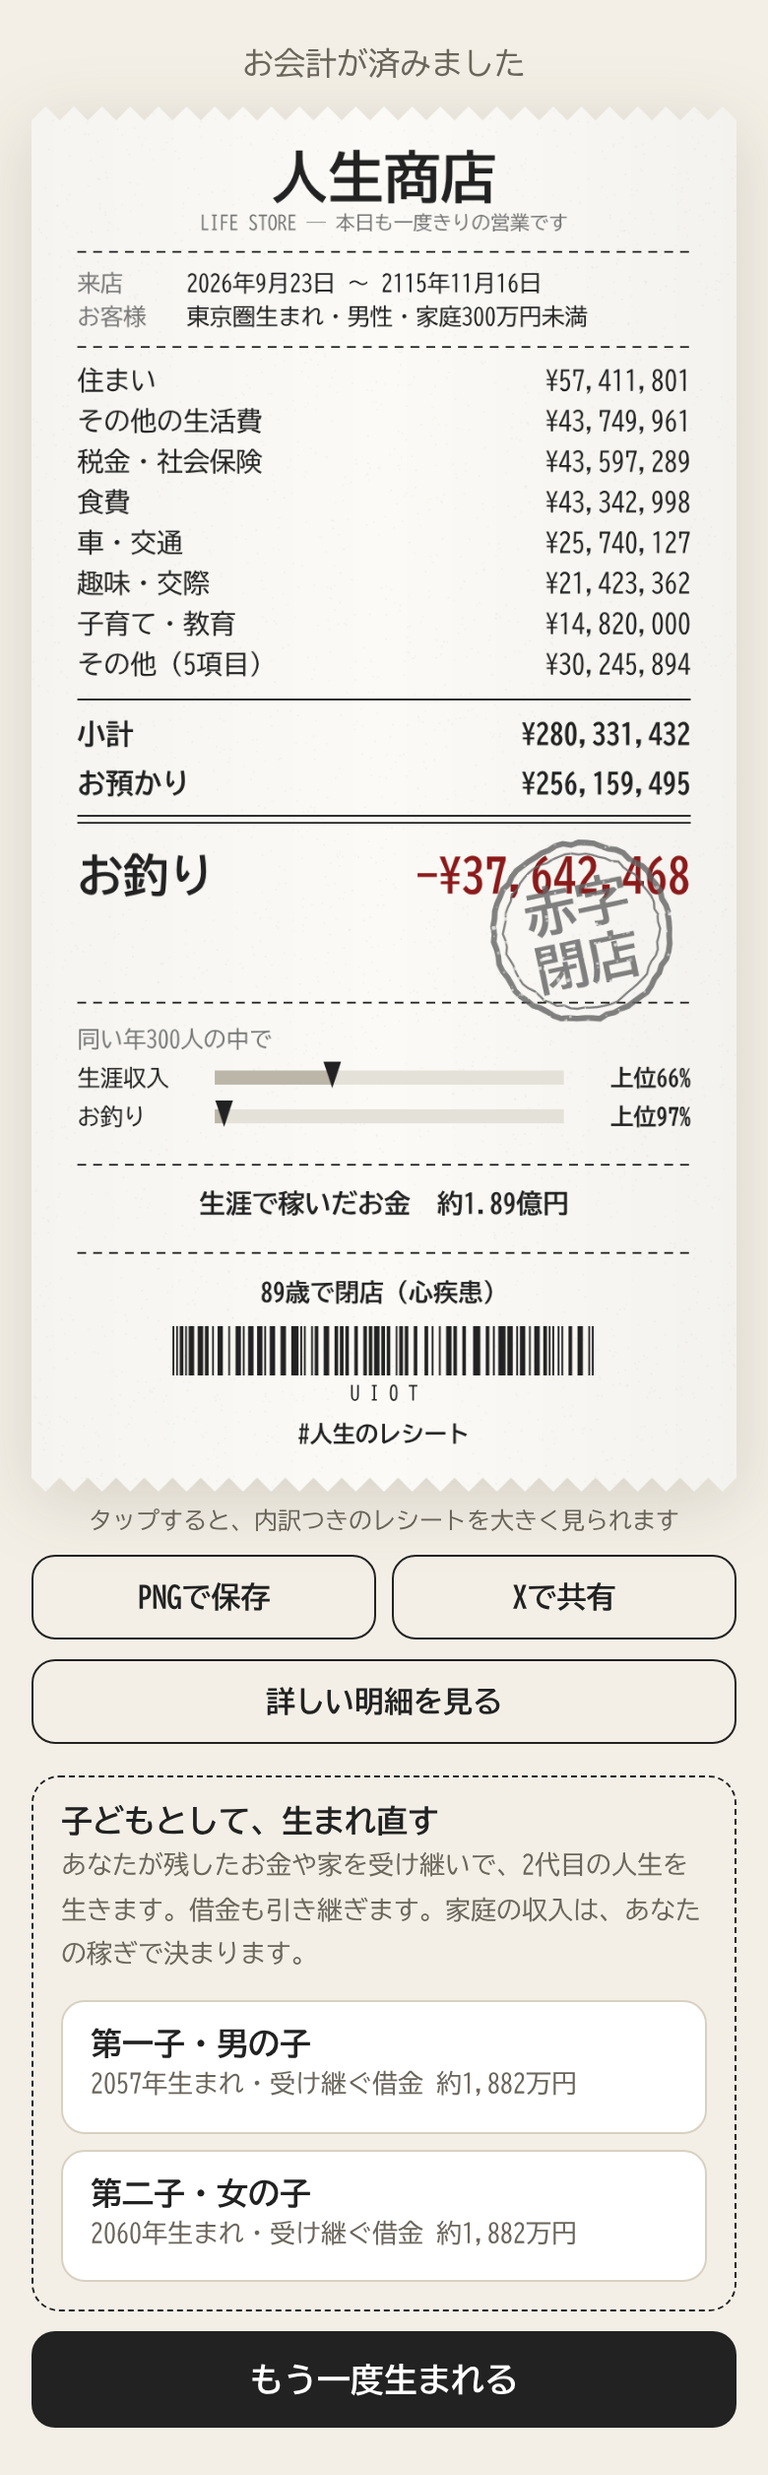
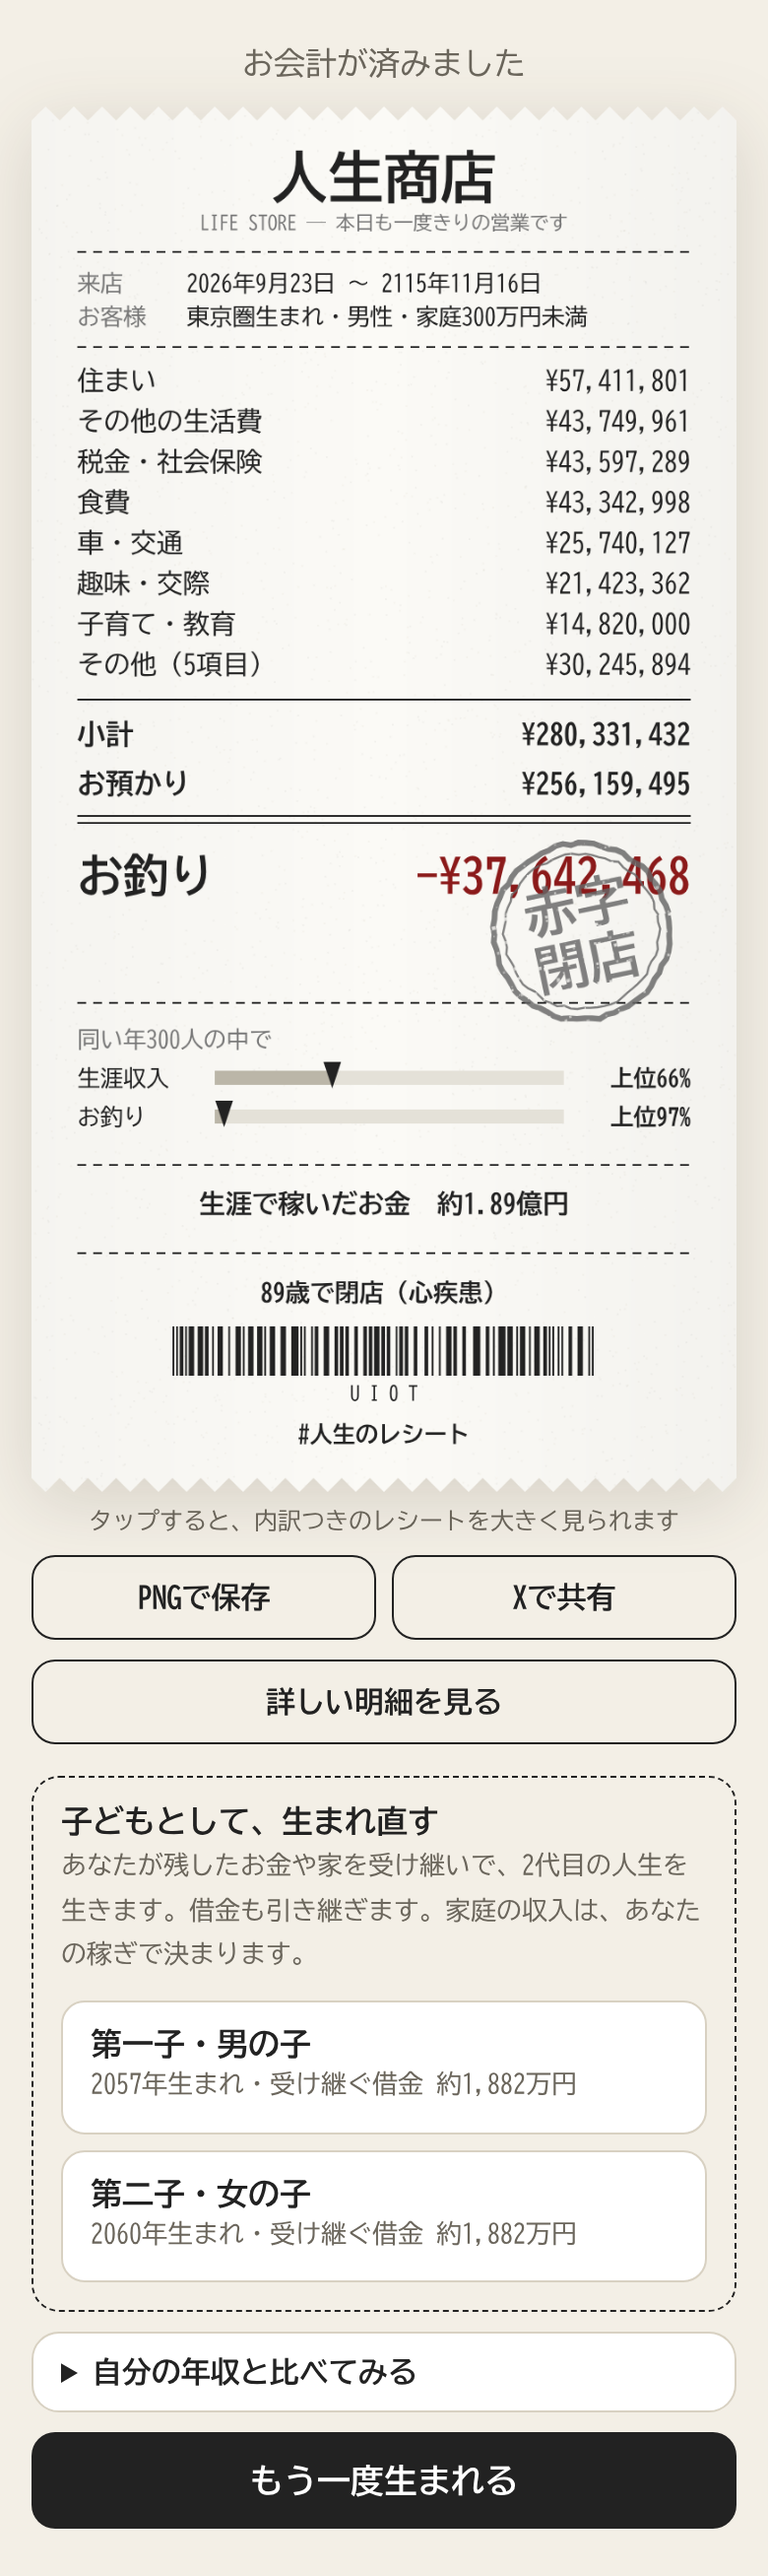
自分の年収と比べる機能を追加し、紹介ページのリンクを共有用の形にする
・結果の画面で実際の年収を入れると、世界・日本の働く人の中で上位何%か、この人生のふつうの年収の何年分かが出る
  （分布は scripts/incomedist.ts で作る。入力はどこにも送らない）
・紹介ページの「こんな人生」と3枚のレシートのリンクを /s/<共有コード> にし、共有するとその人生の画像が出るようにする

Claude-Session: https://claude.ai/code/session_01P8h7G7H9Hz4F9jwmunJGJH

diff --git a/public/lp/index.html b/public/lp/index.html
@@ -477,27 +477,27 @@
         <h2 class="rv"><span class="nw">こんな人生が、</span><span class="nw">ありました。</span></h2>
         <p class="lead rv">ゲームの中で生まれた人生から、いくつかを選びました。</p>
         <div class="lives" role="list">
-          <a class="life rv r" role="listitem" href="/r.html#7.j.gtok13.01111111000112001021121110001100203011110">
+          <a class="life rv r" role="listitem" href="/s/7.j.gtok13.01111111000112001021121110001100203011110">
             <img src="img/g-tokyo.webp" alt="日本・東京圏生まれの人生のレシート" width="560" height="700" loading="lazy" />
             <span class="meta">日本・東京圏・男性・95歳</span><span class="ttl">東京で、大企業に勤めて老後安泰</span><span class="desc">生涯で稼いだお金は約1.96億円。最後に約1.33億円が残った。</span>
           </a>
-          <a class="life rv r" role="listitem" href="/r.html#7.w.gmig3.1010201110000011102101110111100110100">
+          <a class="life rv r" role="listitem" href="/s/7.w.gmig3.1010201110000011102101110111100110100">
             <img src="img/g-migrate.webp" alt="インド・ウッタル・プラデーシュ州の農村生まれの人生のレシート" width="560" height="700" loading="lazy" />
             <span class="meta">インド・農村・女性・64歳</span><span class="ttl">インドの農村から、海外へ出稼ぎに</span><span class="desc">出稼ぎで家計を支えた。生涯で稼いだお金は約1,732万円。</span>
           </a>
-          <a class="life rv r" role="listitem" href="/r.html#7.w.ginfh.100010110021013110001010011001100111000101">
+          <a class="life rv r" role="listitem" href="/s/7.w.ginfh.100010110021013110001010011001100111000101">
             <img src="img/g-inflation.webp" alt="エジプト・ナイル・デルタの農村生まれの人生のレシート" width="560" height="700" loading="lazy" />
             <span class="meta">エジプト・農村・男性・67歳</span><span class="ttl">物価の高騰に、何度も貯金を削られた</span><span class="desc">物価で消えた貯金は約220万円。実際に起きた上昇率のとおりに。</span>
           </a>
-          <a class="life rv r" role="listitem" href="/r.html#7.w.gbri3t.000000010000011100010012110011101020">
+          <a class="life rv r" role="listitem" href="/s/7.w.gbri3t.000000010000011100010012110011101020">
             <img src="img/g-brideprice.webp" alt="ベナン・その他の都市生まれの人生のレシート" width="560" height="700" loading="lazy" />
             <span class="meta">ベナン・都市・男性・56歳</span><span class="ttl">婚資を払って結婚し、子だくさんに</span><span class="desc">子ども4人。恋愛・結婚にかかったお金は約17万円。</span>
           </a>
-          <a class="life rv r" role="listitem" href="/r.html#7.j.gcar2w.00000003110003101311010010000100101101110111110">
+          <a class="life rv r" role="listitem" href="/s/7.j.gcar2w.00000003110003101311010010000100101101110111110">
             <img src="img/g-care.webp" alt="日本・地方の町生まれの人生のレシート" width="560" height="700" loading="lazy" />
             <span class="meta">日本・地方の町・女性・95歳</span><span class="ttl">実家に残り、親の介護を引き受けた</span><span class="desc">介護にかかったお金は約1,178万円。最後に約1,218万円が残った。</span>
           </a>
-          <a class="life rv r" role="listitem" href="/r.html#7.m.gusa1n.1010130020121110100210100001100110001">
+          <a class="life rv r" role="listitem" href="/s/7.m.gusa1n.1010130020121110100210100001100110001">
             <img src="img/g-usa.webp" alt="アメリカ合衆国・シカゴ生まれの人生のレシート" width="560" height="700" loading="lazy" />
             <span class="meta">アメリカ・シカゴ・男性・65歳</span><span class="ttl">アメリカで高い給料、それでも残らない</span><span class="desc">生涯で稼いだお金は約3.90億円。それでも最後は約309万円。</span>
           </a>
@@ -775,7 +775,7 @@
         list.forEach((c) => {
           const a = document.createElement("a");
           a.className = "rc" + (c.iso === "JPN" ? " jp" : "");
-          a.href = "/r.html#" + c.code;
+          a.href = "/s/" + c.code;
           const name = c.country.replace("合衆国", "");
           a.innerHTML = `<div class="who"><b>${name}</b>${c.place}・${c.deathAge}歳</div><div class="earned"><span>生涯で稼いだお金</span><b data-v="${c.income / 1e4}">0円</b></div><div class="mouth"></div><div class="out"><img src="img/r-${c.iso.toLowerCase()}.webp" alt="${name}に生まれた人のレシート" width="600" height="1220" loading="lazy" /></div><span class="more">このレシートを見る</span>`;
           box.append(a);

diff --git a/src/main.ts b/src/main.ts
@@ -6,6 +6,8 @@ import { buildReceipt, detailUrl, shareIntentUrl, shareUrl, shareBase, newLife, 
 import { COUNTRIES, worldCountry, type Mode } from "./engine/world";
 import type { Choice, LifeEvent, YearRecord } from "./engine/types";
 import { showReceipt, downloadReceipt } from "./ui/receipt";
+import { compareMyIncome, topText } from "./engine/myincome";
+import { yen } from "./engine/data";
 
 // 1年の長さは出来事の数で変える。何も起きない年はすぐ過ぎ、出来事の多い年はじっくり見せる。
 // 選択（大きな8回＋小さな選択）を含めて、等倍で1プレイ約10分。
@@ -380,6 +382,12 @@ async function showResult(life: Life): Promise<void> {
     </div>
     <a class="btn sub" href="${esc(url)}">詳しい明細を見る</a>
     ${heirBlock(life)}
+    <details class="mine">
+      <summary>自分の年収と比べてみる</summary>
+      <label class="mine-in">あなたの年収（税金などを引く前）<span><input id="myIncome" type="number" inputmode="numeric" min="0" step="10" placeholder="400" />万円</span></label>
+      <div class="mine-out" id="myOut" aria-live="polite"></div>
+      <p class="mine-note">入力した年収は、どこにも送られません。ゲームの中の世界・日本で、25〜59歳の働く人の年収と比べています（統計をもとにした試算）。</p>
+    </details>
     <button class="btn" id="again">もう一度生まれる</button>
   </div>`);
   app.innerHTML = "";
@@ -399,6 +407,30 @@ async function showResult(life: Life): Promise<void> {
     document.body.append(z);
   };
   root.querySelector<HTMLElement>("#again")!.onclick = () => showTitle();
+  // 自分の年収と比べる（入力はこの画面の中だけで使う）
+  const myIn = root.querySelector<HTMLInputElement>("#myIncome")!;
+  const myOut = root.querySelector<HTMLElement>("#myOut")!;
+  myIn.oninput = () => {
+    const man = Number(myIn.value);
+    if (!(man > 0)) {
+      myOut.innerHTML = "";
+      return;
+    }
+    const jpy = man * 10_000;
+    const c = compareMyIncome(jpy, life);
+    const ratio = c.lifeTypical > 0 ? jpy / c.lifeTypical : 0;
+    const vsLife =
+      c.lifeTypical <= 0
+        ? ""
+        : ratio >= 1.05
+          ? `この人生（${life.D.nameJa}）のふつうの年収 約${yen(c.lifeTypical)} の<b>${ratio >= 10 ? Math.round(ratio) : ratio.toFixed(1)}年分</b>を、1年で稼いでいます。`
+          : ratio <= 0.95
+            ? `この人生（${life.D.nameJa}）のふつうの年収 約${yen(c.lifeTypical)} の<b>${Math.round(ratio * 100)}%</b>です。`
+            : `この人生（${life.D.nameJa}）のふつうの年収 約${yen(c.lifeTypical)} と、ほぼ同じです。`;
+    myOut.innerHTML = `<div class="mine-row"><span>世界の働く人の中で</span><b>${topText(c.world)}</b></div>
+      <div class="mine-row"><span>日本の働く人の中で</span><b>${topText(c.japan)}</b></div>
+      ${vsLife ? `<p>${vsLife}</p>` : ""}`;
+  };
   root.querySelectorAll<HTMLElement>(".heir .opt").forEach((b) => {
     b.onclick = () => showBirthOf(childOf(life, Number(b.dataset.i)), life.mode as Mode);
   });

diff --git a/src/engine/myincome.ts b/src/engine/myincome.ts
@@ -1,0 +1,43 @@
+// 「自分の年収と比べる」：遊んだ人の実際の年収が、ゲームの中の世界・日本の働く人の中でどのあたりかを出す。
+// 分布は scripts/incomedist.ts で作った data/world/income_percentiles.json（25〜59歳の働く人の年収、円換算）。
+import dist from "../../data/world/income_percentiles.json";
+import type { Life } from "./sim";
+
+/** 年収（円）より少ない人の割合（0〜1）。百分位のあいだは直線でつなぐ */
+function below(p: number[], jpy: number): number {
+  if (jpy <= p[0]) return 0;
+  if (jpy >= p[p.length - 1]) return 1;
+  for (let i = 1; i < p.length; i++) {
+    if (jpy < p[i]) {
+      const t = (jpy - p[i - 1]) / Math.max(1, p[i] - p[i - 1]);
+      return (i - 1 + t) / (p.length - 1);
+    }
+  }
+  return 1;
+}
+
+/** 「上位◯%」の文字 */
+export function topText(b: number): string {
+  const top = (1 - b) * 100;
+  if (top < 1) return "上位1%未満";
+  if (top > 99) return "下位1%未満";
+  return top <= 50 ? `上位${Math.round(top)}%` : `下位${Math.round(100 - top)}%`;
+}
+
+export interface MyIncome {
+  world: number;
+  japan: number;
+  /** この人生の、働いた年のふつうの年収（円。25〜59歳で稼ぎがあった年の中央値） */
+  lifeTypical: number;
+}
+
+export function compareMyIncome(jpy: number, l: Life): MyIncome {
+  const years = l.records.filter((y) => (y.income.salary ?? 0) > 0);
+  const main = years.filter((y) => y.age >= 25 && y.age <= 59);
+  const vals = (main.length ? main : years).map((y) => l.D.toJpy(y.income.salary ?? 0)).sort((a, b) => a - b);
+  return {
+    world: below(dist.world.p, jpy),
+    japan: below(dist.japan.p, jpy),
+    lifeTypical: vals.length ? vals[Math.floor(vals.length / 2)] : 0,
+  };
+}

diff --git a/scripts/incomedist.ts b/scripts/incomedist.ts
@@ -1,0 +1,37 @@
+// 「自分の年収と比べる」で使う、働く人の年収の分布（円に直した値の百分位）を作る。
+// ゲームの「世界」「日本」で人生を動かし、25〜59歳で本人の稼ぎがあった年の年収を集める（統計をもとにした試算）。
+// 使い方: npx tsx scripts/incomedist.ts > data/world/income_percentiles.json
+import { autoplay } from "../src/engine/sim";
+import { pickCountry } from "../src/engine/world";
+
+function collect(mode: "w" | "j", n: number): number[] {
+  const out: number[] = [];
+  for (let i = 0; i < n; i++) {
+    const seed = `inc${mode}${i}`;
+    const D = pickCountry(seed, mode);
+    const l = autoplay(seed, D, mode);
+    for (const y of l.records) {
+      const v = y.income.salary ?? 0;
+      if (y.age >= 25 && y.age <= 59 && v > 0) out.push(D.toJpy(v));
+    }
+  }
+  return out.sort((a, b) => a - b);
+}
+/** 0〜100% の百分位（1%きざみ）と、99.5%・99.9% */
+function percentiles(v: number[]): number[] {
+  const qs = [...Array.from({ length: 101 }, (_, i) => i / 100)];
+  return qs.map((q) => Math.round(v[Math.min(v.length - 1, Math.floor(q * (v.length - 1)))]));
+}
+const world = collect("w", 6000);
+const japan = collect("j", 3000);
+console.log(
+  JSON.stringify(
+    {
+      note: "ゲームの中で人生を動かしたときの、25〜59歳の働く人の年収（本人の稼ぎ、円換算）の百分位。p[i] は下から i% の人の年収",
+      world: { samples: world.length, p: percentiles(world) },
+      japan: { samples: japan.length, p: percentiles(japan) },
+    },
+    null,
+    0,
+  ),
+);

diff --git a/src/style.css b/src/style.css
@@ -492,6 +492,68 @@ button {
   margin: 4px 0;
 }
 
+/* ── 自分の年収と比べる ── */
+.mine {
+  border: 1.5px solid var(--line);
+  border-radius: 14px;
+  padding: 12px 14px;
+  background: #fff;
+}
+.mine summary {
+  cursor: pointer;
+  font-weight: 700;
+  font-size: 15px;
+}
+.mine-in {
+  display: block;
+  margin-top: 12px;
+  font-size: 13px;
+  color: var(--sub);
+}
+.mine-in span {
+  display: flex;
+  align-items: center;
+  gap: 8px;
+  margin-top: 6px;
+  color: var(--ink);
+  font-size: 15px;
+}
+.mine-in input {
+  flex: 1;
+  min-width: 0;
+  font: inherit;
+  font-size: 18px;
+  padding: 10px 12px;
+  border: 1.5px solid var(--ink);
+  border-radius: 10px;
+  background: #fff;
+}
+.mine-out {
+  margin-top: 10px;
+}
+.mine-row {
+  display: flex;
+  justify-content: space-between;
+  align-items: baseline;
+  padding: 6px 0;
+  border-bottom: 1px dashed var(--line);
+  font-size: 14px;
+}
+.mine-row b {
+  font-size: 18px;
+}
+.mine-out p {
+  margin: 8px 0 0;
+  font-size: 13.5px;
+  line-height: 1.7;
+}
+.mine-note {
+  margin: 10px 0 0;
+  font-size: 11.5px;
+  color: var(--sub);
+  line-height: 1.6;
+}
+
 /* ── 結果 ── */
 .result {
   padding: 16px 16px calc(24px + var(--safe-b));

diff --git a/README.md b/README.md
@@ -59,8 +59,12 @@
 ## 紹介ページ（LP）とアイコン
 
 - 紹介ページ：`public/lp/index.html`（公開URL `/lp/`）。ページの中で感想・直してほしい点を送れる欄があり、送り先はGoogleフォーム（ページ下の FEEDBACK に送信先と質問の番号を入れると欄が表示される）。「生まれてみる」ボタンでゲーム（`/`）へ移る。一般の人向けの紹介と、授業での使い方・データの説明を1ページにまとめている。画像は `public/lp/img/`。
-- 「こんな人生が、ありました。」：ゲームの中で選んだ6つの人生のレシート（`public/lp/gallery.json`、画像は `public/lp/img/g-*.webp`）。共有URLの版を上げたら `npx tsx scripts/lpgallery.ts > public/lp/gallery.json` で作り直し、`node scripts/lpgalleryimg.mjs` でレシート画像も撮り直す（simtest が古い版のURLを見つけて知らせる）。
+- 「こんな人生が、ありました。」：ゲームの中で選んだ6つの人生のレシート（リンクは共有用の `/s/<共有コード>`。開くと結果のページへ移り、共有するとその人生の画像が出る）（`public/lp/gallery.json`、画像は `public/lp/img/g-*.webp`）。共有URLの版を上げたら `npx tsx scripts/lpgallery.ts > public/lp/gallery.json` で作り直し、`node scripts/lpgalleryimg.mjs` でレシート画像も撮り直す（simtest が古い版のURLを見つけて知らせる）。
 - アイコン：地球とレシート（`public/favicon.svg`、`favicon-32.png`、`apple-touch-icon.png`、`icon-192.png`、`icon-512.png`、`site.webmanifest`）。ゲーム・詳細ページ・紹介ページの3つで使う。
+
+## 自分の年収と比べる
+
+結果の画面の「自分の年収と比べてみる」に実際の年収（万円）を入れると、ゲームの中の世界・日本の25〜59歳の働く人の中で上位何%か、この人生のふつうの年収の何年分かが出る。入力はその画面の中だけで使い、どこにも送らない。分布は `npx tsx scripts/incomedist.ts > data/world/income_percentiles.json` で作る（ゲームの中身を変えたら作り直す）。
 
 ## 結果ごとの共有画像
 

diff --git a/CLAUDE.md b/CLAUDE.md
@@ -8,5 +8,4 @@
 ときどき「この作業が残っていますが、どうしますか？」とユーザーに聞く（区切りのよいところで、1回の返答につき1つまで）。
 
 - お金の振り分け（新しい遊び方のアイデア4）：年に一度、手取りを「暮らし・貯金・投資・家族・自分」に振り分ける。お金の計算と共有URLの仕組みを大きく変えるので作業は大きい。「子どもに生まれ直す」の反応を見てから。
-- 自分の年収と比べる（アイデア8）：遊び終わったあと実際の年収を入れると、世界で何番目くらいかが分かる。軽く作れる。
 - 代ごとの差の集計：子どもに生まれ直したとき、どの国だと代が進むほど差が広がるか（親の稼ぎが少ない国ほど2・3代目も苦しいか）を国ごとに集計する。授業やSNSの話題にできる。
